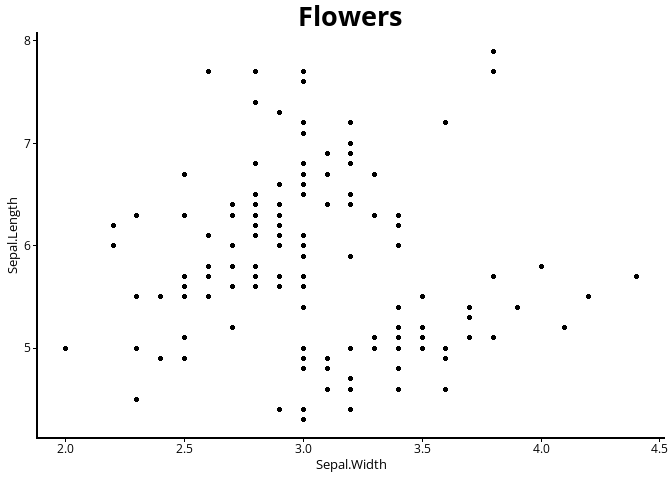
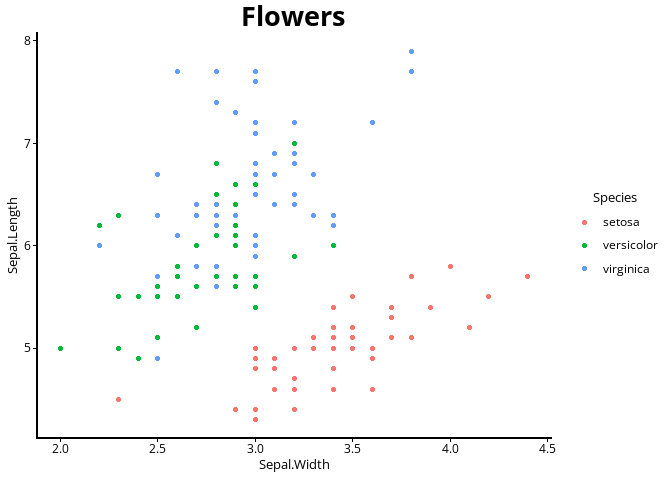
readme reformatting

diff --git a/README.md b/README.md
@@ -103,10 +103,12 @@ facing reports and dashboards. The `theme_tn()` function sets plot fonts
 to Open Sans and simplifies the default theme.
 
 ``` r
-ggplot(iris, aes(x=Sepal.Width,y=Sepal.Length)) +
+flowers <- ggplot(iris, aes(x = Sepal.Width, y = Sepal.Length, color = Species)) +
   geom_point() +
-  theme_tn() +
-  ggtitle('Flowers')
+  ggtitle('Flowers') +
+  theme_tn()
+  
+flowers
 ```
 
 ![](README_files/figure-commonmark/theme_basic-1.png)
@@ -116,9 +118,7 @@ function parameters. If a color is not branding compliant, a warning
 will be generated.
 
 ``` r
-#| warnings: false
-
-flowers<-ggplot(iris, aes(x=Sepal.Width,y=Sepal.Length, color=Species)) +
+flowers <- ggplot(iris, aes(x = Sepal.Width, y = Sepal.Length, color = Species)) +
   geom_point() +
   ggtitle('Flowers') +
   theme_tn(axis_line_color = 'OfficialBlue',
@@ -156,8 +156,10 @@ These palettes can be used with another set of custom functions:
 `scale_fill_tn()` and `scale_color_tn()`
 
 ``` r
-flowers +
+flowers <- flowers +
   scale_color_tn('Contrast')
+
+flowers
 ```
 
 ![](README_files/figure-commonmark/scales-1.png)
@@ -165,6 +167,8 @@ flowers +
 For continuous scales, use `discrete=FALSE`. This will result in colors
 on the plot which do not conform to the branding standard because
 intermediate colors are interpolated from the chosen palette.
+
+### Logos
 
 Finally, the `add_tn_logo()` function can place one of several onto a
 plot object. The logo can be specified as a string from
